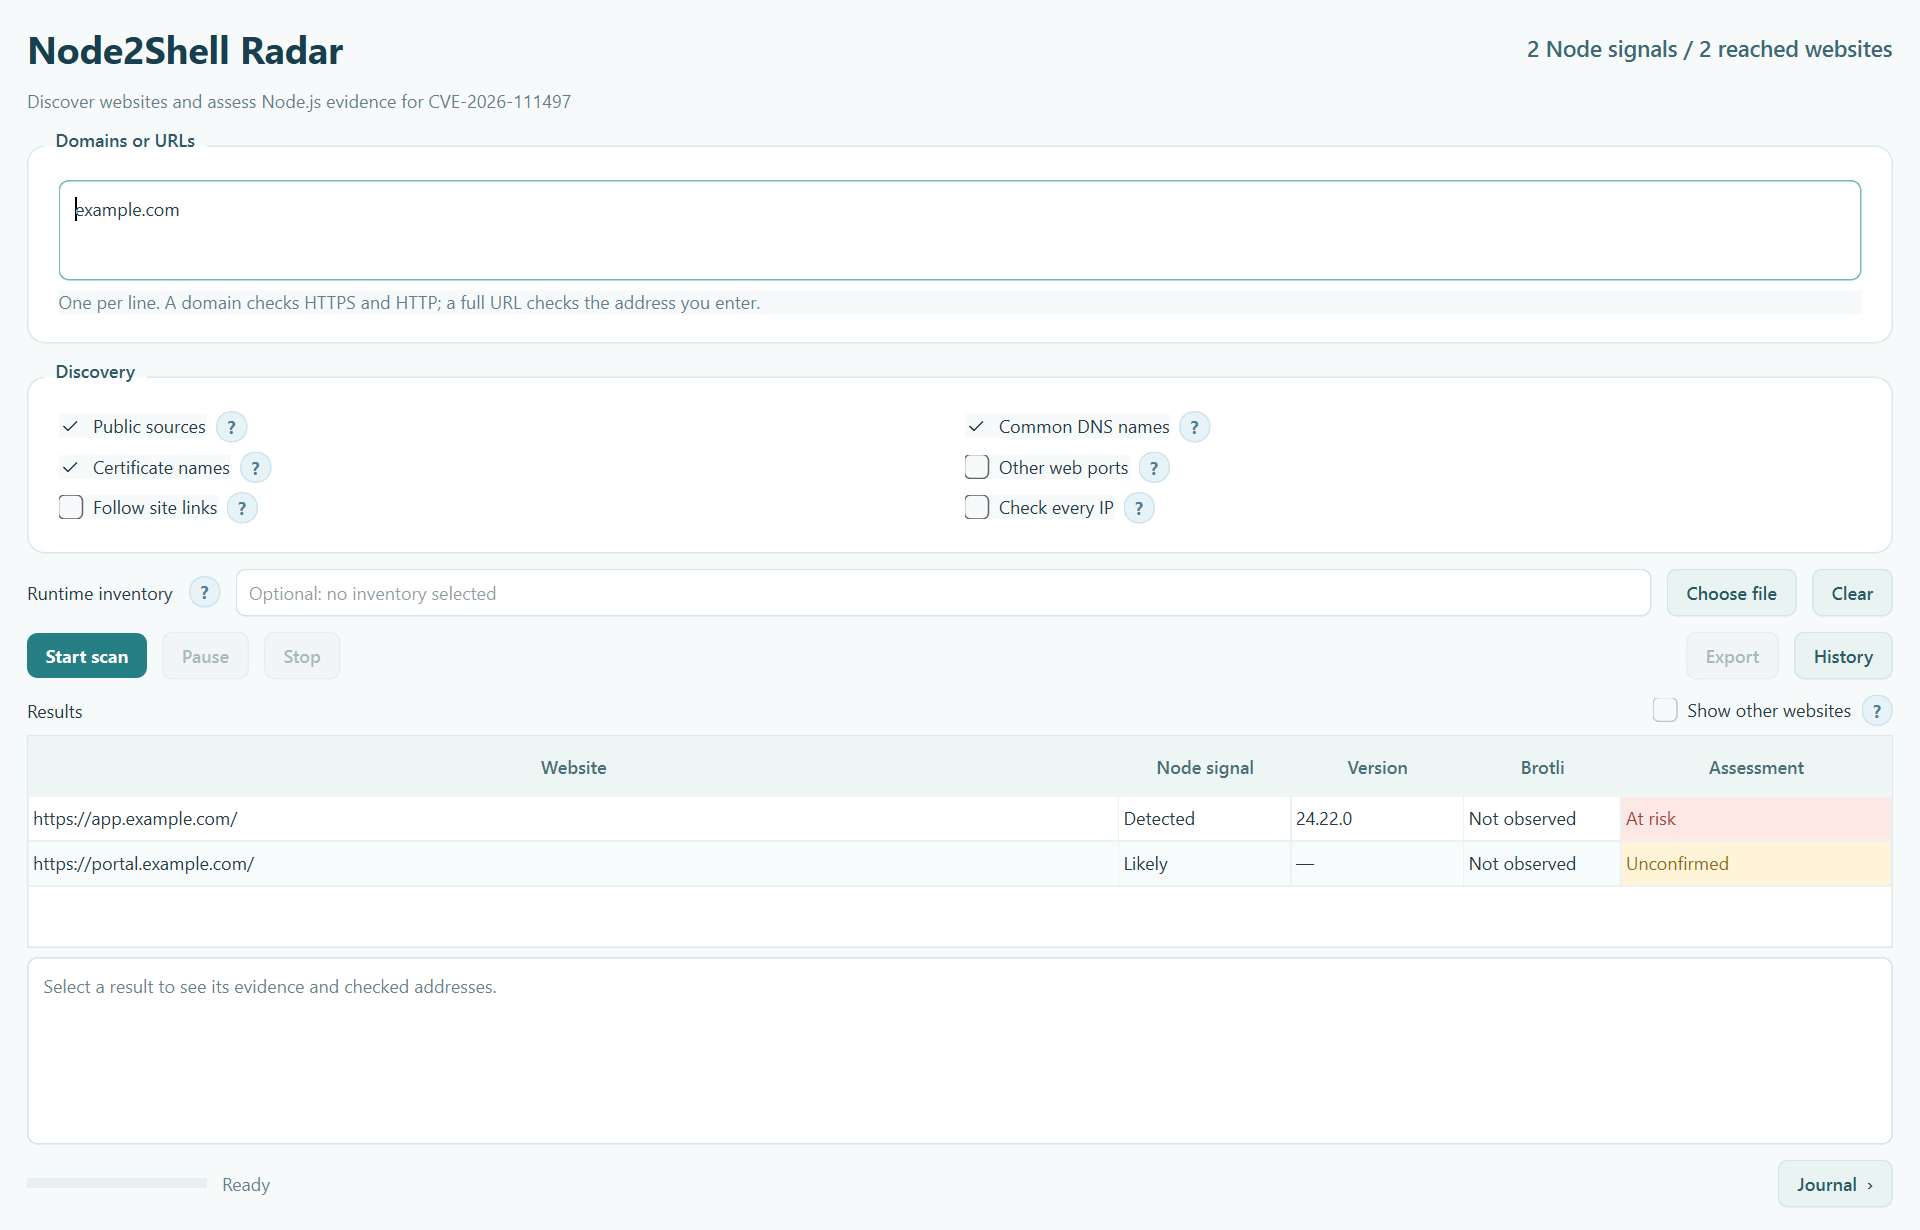
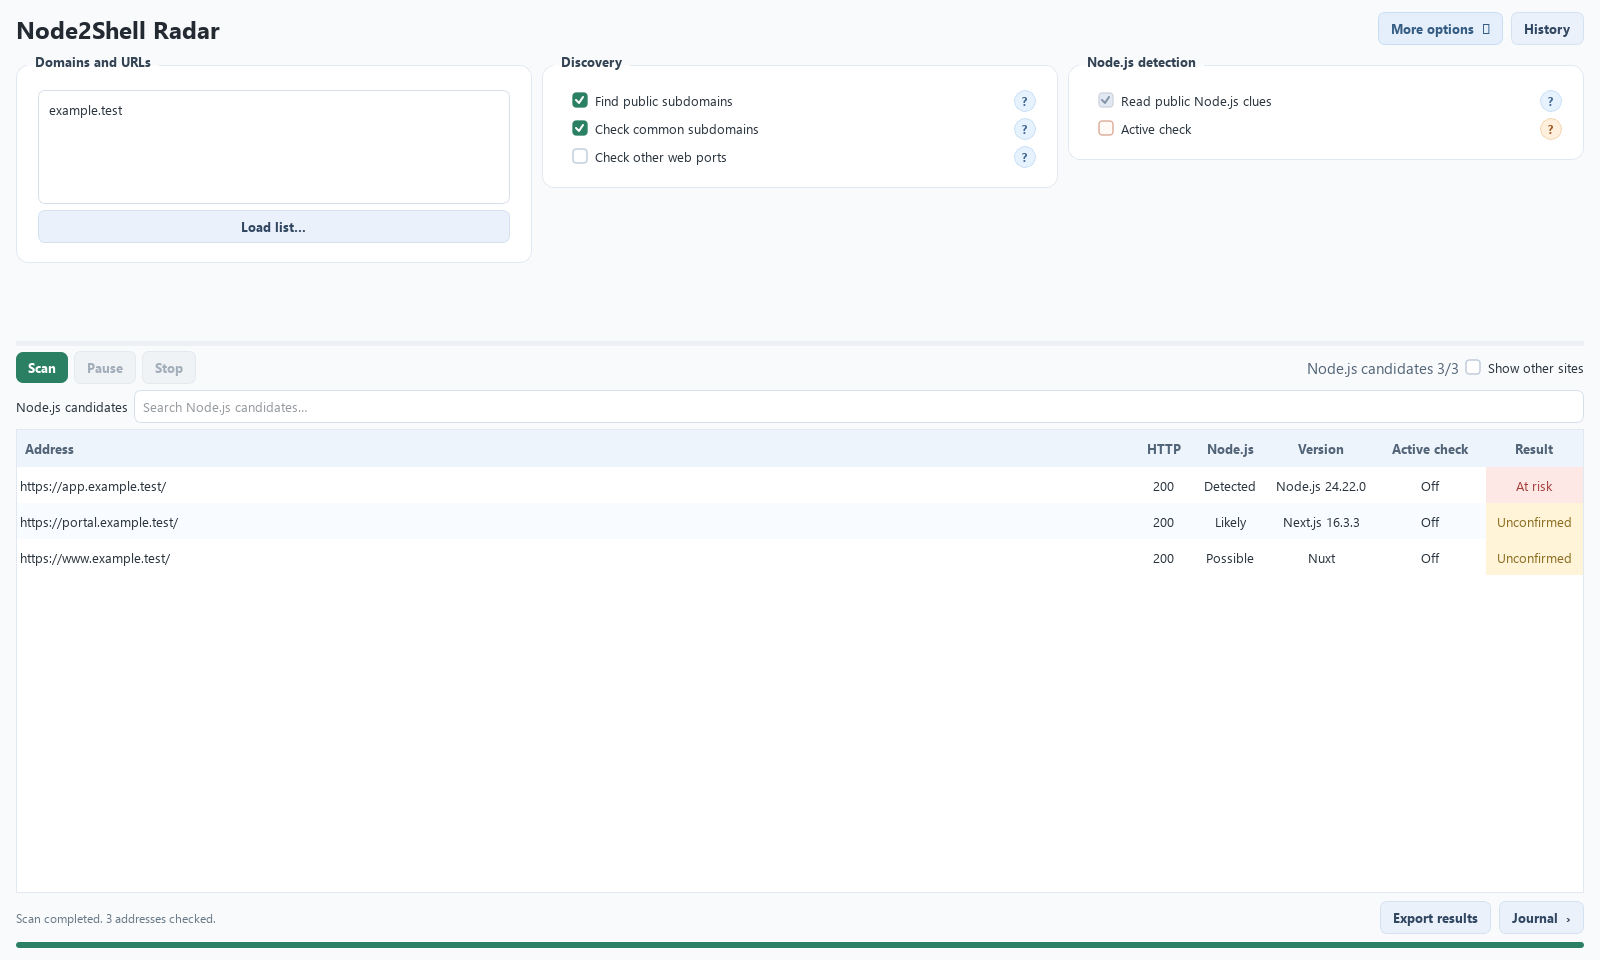
Prepare public Node2Shell Radar repository

diff --git a/scripts/build_social.py b/scripts/build_social.py
@@ -1,0 +1,95 @@
+"""Render the 1280x640 social preview from the product icon."""
+
+import os
+from pathlib import Path
+
+os.environ.setdefault("QT_QPA_PLATFORM", "offscreen")
+
+from PySide6.QtCore import QRectF, Qt
+from PySide6.QtGui import (QColor, QFont, QGuiApplication, QImage, QLinearGradient,
+                           QFontDatabase, QPainter, QPen, QRadialGradient)
+from PySide6.QtSvg import QSvgRenderer
+
+
+def main():
+    root = Path(__file__).resolve().parents[1]
+    output = root / "assets" / "social-preview.png"
+    output.parent.mkdir(exist_ok=True)
+    app = QGuiApplication.instance() or QGuiApplication([])
+    for name in ("segoeui.ttf", "segoeuib.ttf"):
+        font_path = Path("C:/Windows/Fonts") / name
+        if font_path.is_file():
+            QFontDatabase.addApplicationFont(str(font_path))
+    icon = QSvgRenderer(str(root / "radar" / "data" / "app-icon.svg"))
+    if not icon.isValid():
+        raise RuntimeError("Invalid product icon SVG")
+
+    canvas = QImage(1280, 640, QImage.Format.Format_ARGB32_Premultiplied)
+    painter = QPainter(canvas)
+    painter.setRenderHint(QPainter.RenderHint.Antialiasing)
+    painter.setRenderHint(QPainter.RenderHint.TextAntialiasing)
+
+    background = QLinearGradient(0, 0, 1280, 640)
+    background.setColorAt(0, QColor("#f8fdfa"))
+    background.setColorAt(0.57, QColor("#eef9f4"))
+    background.setColorAt(1, QColor("#e8f3fa"))
+    painter.fillRect(canvas.rect(), background)
+
+    for x, y, radius, color in (
+        (75, 610, 330, QColor(100, 210, 189, 37)),
+        (1160, 55, 390, QColor(120, 188, 214, 32)),
+    ):
+        glow = QRadialGradient(x, y, radius)
+        glow.setColorAt(0, color)
+        glow.setColorAt(1, QColor(color.red(), color.green(), color.blue(), 0))
+        painter.setPen(Qt.PenStyle.NoPen)
+        painter.setBrush(glow)
+        painter.drawEllipse(QRectF(x - radius, y - radius, radius * 2, radius * 2))
+
+    painter.setBrush(Qt.BrushStyle.NoBrush)
+    for radius, alpha in ((180, 35), (260, 30), (340, 24), (420, 18)):
+        painter.setPen(QPen(QColor(45, 128, 122, alpha), 3))
+        painter.drawEllipse(QRectF(1150 - radius, 320 - radius, radius * 2, radius * 2))
+
+    for offset, alpha in ((14, 10), (9, 16), (5, 22)):
+        painter.setBrush(QColor(22, 55, 64, alpha))
+        painter.setPen(Qt.PenStyle.NoPen)
+        painter.drawRoundedRect(QRectF(104 + offset, 169 + offset, 300, 300), 70, 70)
+    icon.render(painter, QRectF(104, 169, 300, 300))
+
+    painter.setPen(QColor("#173947"))
+    title = QFont("Segoe UI")
+    title.setWeight(QFont.Weight.Bold)
+    title.setPixelSize(76)
+    painter.setFont(title)
+    painter.drawText(QRectF(455, 188, 750, 105),
+                     Qt.AlignmentFlag.AlignLeft | Qt.AlignmentFlag.AlignVCenter,
+                     "Node2Shell")
+    title.setPixelSize(100)
+    painter.setFont(title)
+    painter.drawText(QRectF(451, 278, 700, 125),
+                     Qt.AlignmentFlag.AlignLeft | Qt.AlignmentFlag.AlignVCenter,
+                     "Radar")
+
+    painter.setPen(QColor("#54717b"))
+    subtitle = QFont("Segoe UI")
+    subtitle.setPixelSize(30)
+    painter.setFont(subtitle)
+    painter.drawText(QRectF(460, 411, 720, 66),
+                     Qt.AlignmentFlag.AlignLeft | Qt.AlignmentFlag.AlignVCenter,
+                     "Find Node.js sites. Prioritize exposure.")
+    painter.setBrush(QColor("#6bcdbb"))
+    painter.setPen(Qt.PenStyle.NoPen)
+    painter.drawRoundedRect(QRectF(460, 507, 124, 8), 4, 4)
+    painter.setBrush(QColor("#f18d79"))
+    painter.drawEllipse(QRectF(598, 503, 16, 16))
+    painter.end()
+
+    if not canvas.save(str(output), "PNG"):
+        raise RuntimeError("Could not save social preview")
+    app.quit()
+    print(output)
+
+
+if __name__ == "__main__":
+    main()

diff --git a/scripts/smoke_gui.py b/scripts/smoke_gui.py
@@ -16,26 +16,29 @@ if __name__ == "__main__":
     with tempfile.TemporaryDirectory() as temp:
         app = QApplication([])
         window = MainWindow(Path(temp) / "sessions.sqlite")
-        window.targets.setPlainText("example.test")
-        assert window._options().targets[0].host == "example.test"
-        node = {"id": "https://node.example.test/", "url": "https://node.example.test/",
-                "final_url": "https://node.example.test/", "http_status": 200,
-                "node": "LIKELY", "verdict": "Unconfirmed", "evidence": [],
-                "content_sha256": "node"}
-        other = {"id": "https://other.example.test/", "url": "https://other.example.test/",
-                 "final_url": "https://other.example.test/", "http_status": 200,
-                 "node": "NOT_ESTABLISHED", "verdict": "Unconfirmed", "evidence": [],
-                 "content_sha256": "other"}
-        window.assets = {node["id"]: node, other["id"]: other}
-        window.refresh_results()
-        assert window.table.rowCount() == 1
-        assert window.metric_label.text() == "Node.js sites 1/2"
-        window.finished = True
-        window.show_other.setEnabled(True)
-        window.show_other.setChecked(True)
-        assert window.table.rowCount() == 2
-        window.show()
-        QTimer.singleShot(150, window.close)
-        QTimer.singleShot(300, app.quit)
-        result = app.exec()
+        try:
+            window.targets.setPlainText("example.test")
+            assert window._options().targets[0].host == "example.test"
+            node = {"id": "https://node.example.test/", "url": "https://node.example.test/",
+                    "final_url": "https://node.example.test/", "http_status": 200,
+                    "node": "LIKELY", "verdict": "Unconfirmed", "evidence": [],
+                    "content_sha256": "node"}
+            other = {"id": "https://other.example.test/", "url": "https://other.example.test/",
+                     "final_url": "https://other.example.test/", "http_status": 200,
+                     "node": "NOT_ESTABLISHED", "verdict": "Unconfirmed", "evidence": [],
+                     "content_sha256": "other"}
+            window.assets = {node["id"]: node, other["id"]: other}
+            window.refresh_results()
+            assert window.table.rowCount() == 1
+            assert window.metric_label.text() == "Node.js candidates 1/2"
+            window.finished = True
+            window.show_other.setEnabled(True)
+            window.show_other.setChecked(True)
+            assert window.table.rowCount() == 3
+            window.show()
+            QTimer.singleShot(150, window.close)
+            QTimer.singleShot(300, app.quit)
+            result = app.exec()
+        finally:
+            window.close()
     raise SystemExit(result)

diff --git a/README.md b/README.md
@@ -1,81 +1,65 @@
 <div align="center">
   <img src="radar/data/app-icon.png" alt="Node2Shell Radar icon" width="112">
   <h1>Node2Shell Radar</h1>
-  <p>Find Node.js websites. Identify deployed runtimes that need the Brotli fix.</p>
+  <p>Find your Node.js websites. See which ones need attention.</p>
+  <p><a href="https://github.com/Secragon/node2shell-radar/releases/latest">Download for Windows or Linux</a></p>
 </div>
 
-Node2Shell Radar is a desktop asset-discovery and exposure-triage tool for **CVE-2026-111497**. Enter domains or URLs to discover reachable websites and inspect public Node.js clues.
+Node2Shell Radar is a desktop **Node2Shell Scanner** for discovering websites that may use Node.js and reviewing their exposure to **CVE-2026-111497**. Enter a domain or URL, run a scan, and review the evidence in one place. The standard scan looks for websites and reads public responses; the optional active check is off until you select it.
 
-The desktop layout follows PHP2Shell Radar's three-column workflow: targets,
-discovery, and detection, followed by the results table and journal. **More
-options** exposes editable DNS names, deeper DNS checks, certificate names,
-site crawling, per-IP checks, TLS verification, concurrency, timeout, and
-request interval.
-Additional web ports can be edited on the main screen.
-The optional active check runs only when selected. It compares three small
-`OPTIONS` requests on each candidate site. It also tests Strapi's default login
-route with two made-up login attempts: ordinary JSON first, then the identical
-valid Brotli-compressed JSON if the first response identifies Strapi's route.
-The results show each tested path and combine the evidence. A positive result
-means Brotli request parsing was observed on that path; it does not prove which
-process decoded the body or whether its Brotli library is vulnerable. The
-check does not change the version-based verdict.
-For Fastify, an inconclusive `OPTIONS` response may mean that the tested path
-has no body-parsing route; it does not rule out other routes.
+![Illustrative scan of example.test in Node2Shell Radar](assets/app-preview.png)
 
-## What a scan does
+*Illustrative interface preview using example data. It is not a scan of a real organization.*
 
-1. **Find websites.** Public subdomain sources, common DNS names and TLS certificate names are enabled at launch. Each name is resolved and checked over HTTP or HTTPS before it counts as reached. Extra ports, per-IP checks and bounded site crawling are separate options.
-2. **Recognize Node.js clues.** A direct Node.js response header is stronger evidence than a framework header. Passive headers, cookies and HTML identify candidates across server and full-stack frameworks, including Express, Next.js, Nuxt, Remix, React Router, SvelteKit, Astro and Gatsby. Their pages may be static or use another runtime, so framework evidence alone does not confirm a running Node.js service. A reported framework version is shown separately from the Node.js runtime version.
-3. **Assess version evidence.** A Node.js version reported over HTTP is compared with the upstream security releases. Missing, conflicting or vendor-specific versions stay unconfirmed.
-4. **Review the rest.** After completion, *Show other websites* reveals reached sites without Node.js runtime evidence. Checked addresses and evidence remain in the saved session; JSON/CSV export contains the currently visible result rows.
+## Download and run
 
-Results group paths and equivalent HTTP/HTTPS, apex/`www`, or host aliases under
-one website. HTTP upgrades display the HTTPS destination; separate direct
-views appear in a dropdown only when their public pages agree. Shared wildcard
-DNS pages, weak error pages, empty HTTP 200 responses, and redirects outside
-the entered domain scope stay in the journal instead of inflating the site
-count. Wildcard pages that only echo the requested hostname are recognized as
-the same page; identical HTTP/HTTPS 401 or 403 views group into one site.
-Unresolved DNS candidates and each checked crawl page remain separate assets
-in the saved session, while reached pages of one site share a result row.
-Requests use a browser-compatible User-Agent that identifies
-Node2Shell Radar. Public data sources can rate-limit discovery, so the scan
-cannot guarantee every subdomain was found.
+| Platform | Download | Run |
+| --- | --- | --- |
+| Windows 10/11, x64 | [`Node2Shell-Radar-windows-x64.exe`](https://github.com/Secragon/node2shell-radar/releases/latest) | Double-click the single EXE. No installer or Python needed. |
+| Linux, x64 | [`Node2Shell-Radar-linux-x86_64.tar.gz`](https://github.com/Secragon/node2shell-radar/releases/latest) | Extract the archive, then run `./Node2Shell-Radar` in a desktop session. No Python needed. |
 
-| Result | Meaning |
+Each [release](https://github.com/Secragon/node2shell-radar/releases/latest) includes `SHA256SUMS` for checking the downloads. Linux needs standard desktop graphics libraries. Sessions are saved on your machine; you choose where to save exports.
+
+## What happens during a scan
+
+1. **Enter a domain or URL.** A domain checks its normal web ports. A full URL checks the address you entered.
+2. **Find websites.** Public subdomain sources, common DNS names and TLS certificate names help find more sites. A name counts as a reached website only after a web response is received. Extra ports and deeper discovery are optional.
+3. **Recognize Node.js clues.** Radar looks at public response headers, cookies and pages. It can identify Node.js directly or find frameworks such as Next.js and Nuxt that make a site worth reviewing. A framework alone does not prove that the public site runs on Node.js.
+4. **Review the result.** The table shows the website, its Node.js signal, any reported version and the assessment. Double-click a row for the evidence and its limits. Related addresses can expand beneath one website; click an address to copy it.
+5. **Filter and export.** Search the results or reveal other reached websites. **Export results** saves the rows currently visible as JSON or CSV. The **Journal** shows scan activity separately.
+
+| Result | What it means |
 | --- | --- |
-| **Fixed version** | An HTTP response reports an upstream fixed Node.js version; the serving process and its selected Brotli decoder remain unverified. |
-| **At risk** | The reported Node.js version predates the upstream fix; a vendor backport or different decoder may change the actual patch state. |
-| **Unconfirmed** | The version is missing, conflicting, vendor-specific, or not tied to a confirmed Node.js runtime. |
+| **Fixed version** | The site reports a Node.js version with the upstream fix. Its actual decoder build is not verified remotely. |
+| **At risk** | The site reports an older Node.js version. A vendor-provided fix may still be present. |
+| **Unconfirmed** | Radar cannot establish the Node.js version or patch state from the available evidence. |
 
-The upstream fixed releases are **Node.js 22.23.4, 24.22.1 and 26.12.1**. The vulnerable component is the Brotli **decoder**. The scanner records its patch status as **Unverified remotely**, independently of the reported Node.js version and active request parsing result. Serving a Brotli-compressed response does not prove the server accepts or decompresses Brotli request bodies. A site may also be exposed through outbound responses that its Node.js process fetches. Some distribution builds use a system Brotli library, so a fixed Node.js version string alone is not full patch verification. Radar does not send malformed Brotli streams or claim remote code-execution confirmation. [Node.js advisory](https://nodejs.org/en/blog/vulnerability/october-2026-security-releases), [Imperva's validation](https://www.imperva.com/blog/node2shell-from-brotli-data-to-remote-code-execution/), [Express Brotli request parsing](https://expressjs.com/en/guide/migrating-5/), [Debian's system-library note](https://security-tracker.debian.org/tracker/CVE-2026-111497).
+**Active check** sends a small number of additional requests to candidate sites when you select it. It reports whether Brotli request parsing appears reachable on the tested paths; it cannot prove a server is vulnerable, patched or exploitable. The check is off by default. Passive signals can also be hidden or changed by proxies, so no result is a complete inventory or a guarantee of safety.
 
-## Run from source
+## Build from source
 
-Python 3.11+ is required for development. On Windows:
+Python 3.11+ is required. On Windows:
 
 ```powershell
 py -3.11 -m venv .venv
-.venv\Scripts\python -m pip install -e .
-.venv\Scripts\pythonw -m radar
+.venv\Scripts\python.exe -m pip install -e ".[build]"
+.venv\Scripts\pythonw.exe -m radar
 ```
 
 On Linux:
 
-```bash
+```sh
 python3 -m venv .venv
-.venv/bin/python -m pip install -e .
+.venv/bin/python -m pip install -e '.[build]'
 .venv/bin/python -m radar
 ```
 
-The CLI uses the same engine and can export JSON or CSV:
+Run the offline tests with `python -m unittest discover -s tests -v`. Platform packages can be built with `scripts/build_windows.py` or `scripts/build_linux.py`. Tagged versions build both packages in [GitHub Actions](.github/workflows/release.yml).
 
-```bash
-python -m radar --cli example.com --no-active-dns --output report.json
-python -m radar --cli app.example.com --output report.csv
-```
+## Privacy and responsible use
 
-Build a single-file Windows GUI executable with `scripts/build_windows.py` on Windows, or a portable Linux archive with `scripts/build_linux.py` on Linux. Each writes to one `release/` directory. Builds are platform-specific; PyInstaller does not cross-compile. `scripts/write_checksums.py release` writes SHA-256 sums once both platform packages are present.
+Scan only sites you own or are authorized to assess. Sessions and exports stay on your machine; Radar does not upload results to Secragon. Discovery may contact public services, and active checks send requests to target sites. Saved sessions can contain hostnames and URLs, so avoid putting secrets in URL queries.
 
-Node2Shell Radar is released under [Apache-2.0](LICENSE).
+Website discovery techniques were adapted from [PHP2Shell Radar](https://github.com/Secragon/php2shell-radar). For a suspected issue in this tool, see [SECURITY.md](SECURITY.md).
+
+Licensed under [Apache 2.0](LICENSE). Copyright © 2026 Secragon.

diff --git a/SECURITY.md b/SECURITY.md
@@ -1,5 +1,5 @@
 # Security
 
-Node2Shell Radar performs asset discovery and passive HTTP inspection. It does not send malformed Brotli streams, run exploit payloads, or infer that a site is safe from a missing header. Some discovery options make additional DNS lookups or GET requests; the UI explains their impact before use.
+Node2Shell Radar discovers websites and reads public HTTP responses. **Active check** sends additional requests only when a user selects it. Radar does not send malformed Brotli streams or exploit payloads. A missing signal cannot establish that a site is safe, and a positive parsing signal cannot prove its patch state.
 
 For a vulnerability in this tool, contact Secragon through [its vulnerability reporting page](https://secragon.com/security/). For CVE-2026-111497 itself, use the [Node.js security process](https://github.com/nodejs/node/blob/main/SECURITY.md).
